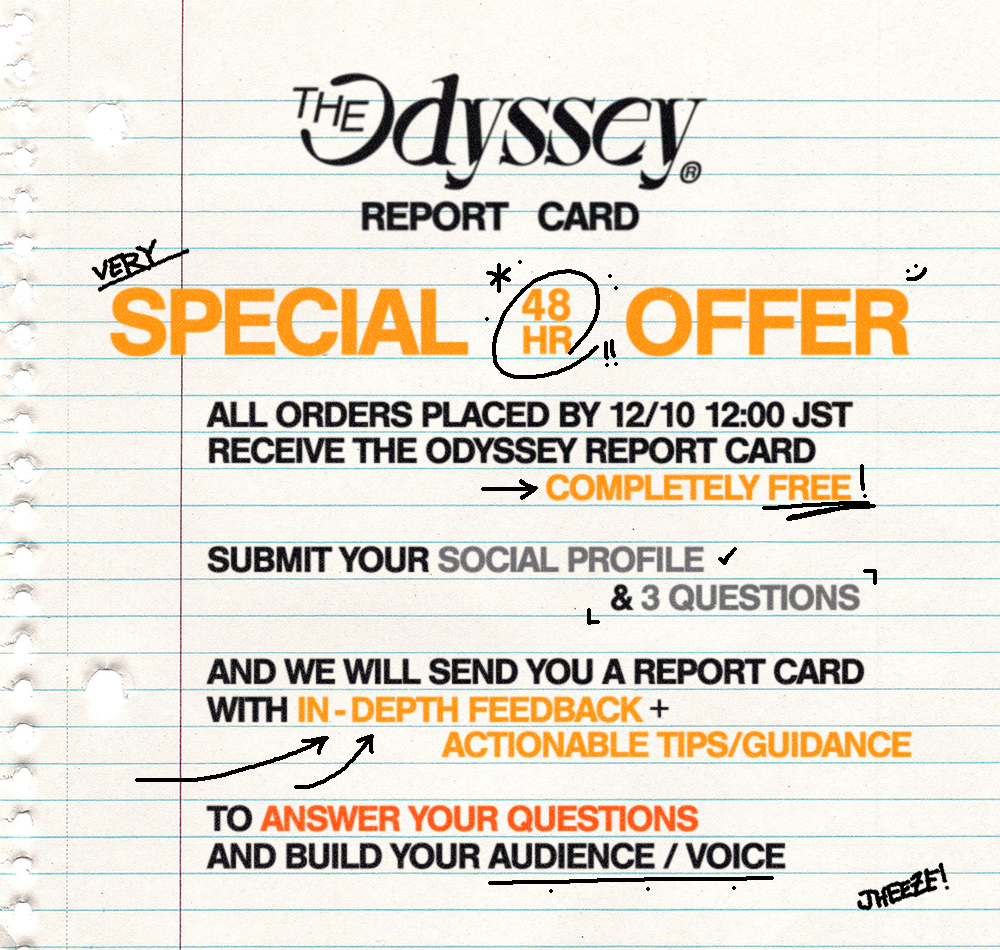
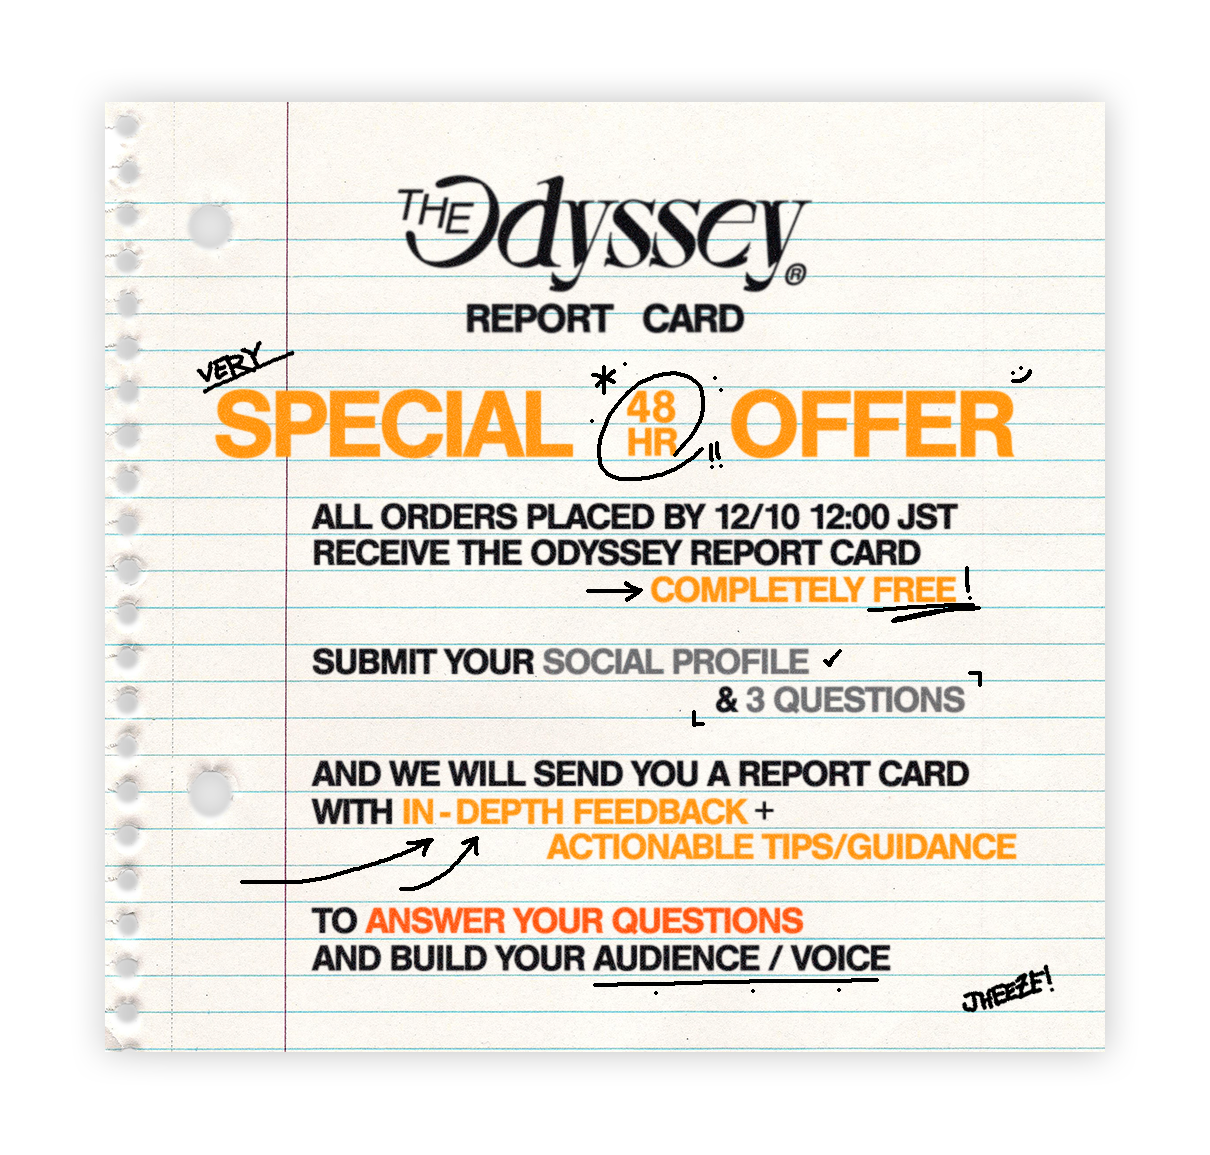
Update pop-up image

diff --git a/server/server.js b/server/server.js
@@ -55,6 +55,8 @@ admin.initializeApp({
     credential: admin.credential.cert(serviceAccount),
 });
 
+const FIRST_48 = new Date("2023-12-10T03:00:00Z");
+
 // functions ==================================================
 // Get products from Firestore
 const getProducts = async () => {
@@ -495,6 +497,7 @@ app.post("/create-paypal-order", async (req, res) => {
             complete: false,
             timeStamp: Date.now(),
             uid: req.body.uid,
+            first48: Date.now() < FIRST_48,
         });
 
         // const formattedItems = cartItems.map((item) => ({
@@ -856,6 +859,7 @@ app.post("/create-checkout-session", async (req, res) => {
             complete: false,
             uid: req.uid,
             timeStamp: Date.now(),
+            first48: Date.now() < FIRST_48,
         });
 
         res.json({ url: session.url });

diff --git a/src/components/Homepage/Homepage.css b/src/components/Homepage/Homepage.css
@@ -93,8 +93,8 @@
 
 .homepage .pop-up {
     position: fixed;
-    width: 500px;
-    height: 500px;
+    width: 600px;
+    height: 600px;
     top: 50%;
     left: 50%;
     transform: translate(-50%, -50%);
@@ -109,8 +109,8 @@
 
 .homepage .pop-up svg {
     position: absolute;
-    top: 1rem;
-    right: 1rem;
+    top: 4rem;
+    right: 4rem;
     width: 50px;
     height: 50px;
     color: black;
@@ -167,6 +167,11 @@
         width: 100%;
         height: auto;
         object-fit: cover;
+    }
+
+    .homepage .pop-up svg {
+        top: 2rem;
+        right: 2rem;
     }
     
 }
